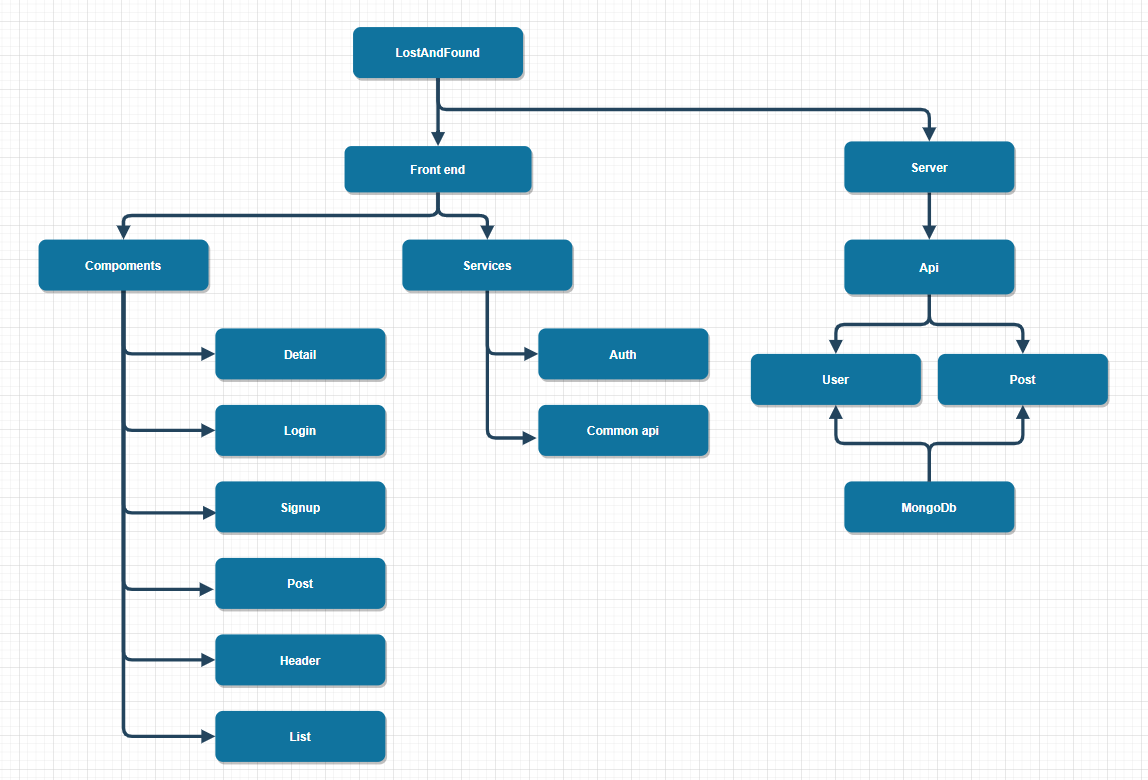
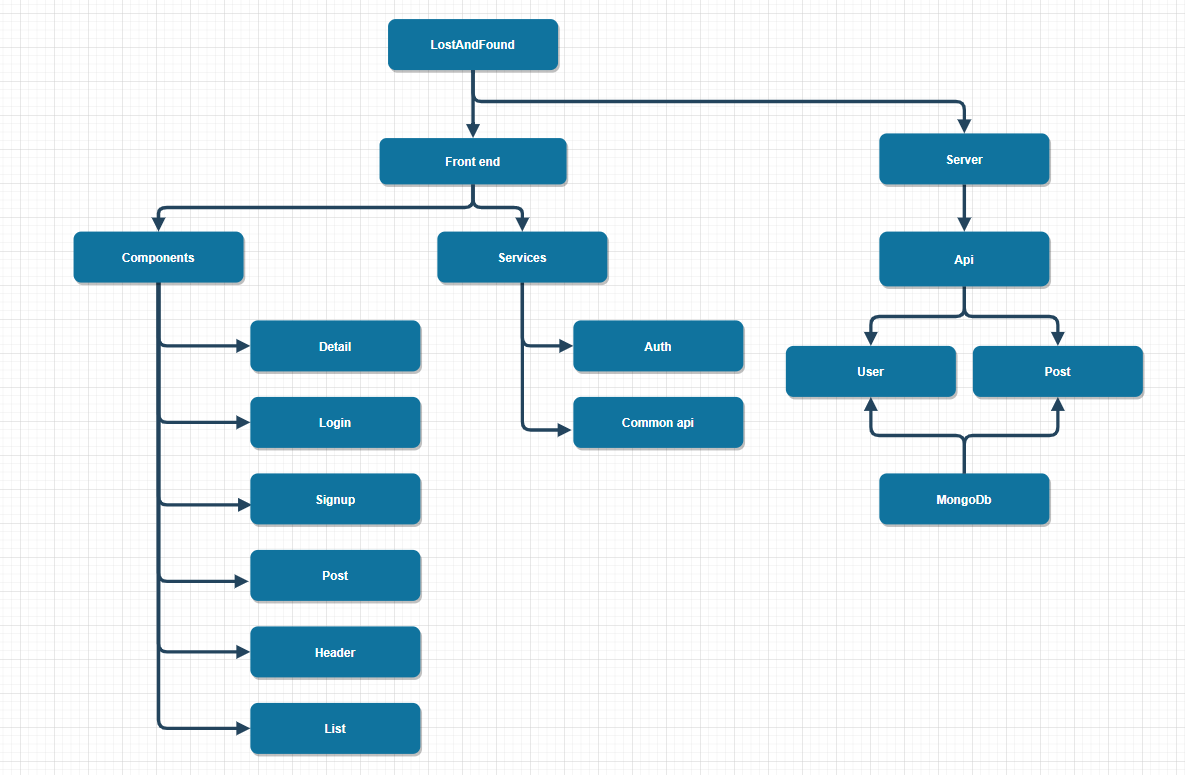
update system implementation

Changed region(s): [[0.0305, 0.0, 0.9756, 0.991], [0.8841, 0.1858, 0.9146, 0.2168]]

diff --git a/api/express/routes/post.js b/api/express/routes/post.js
@@ -44,7 +44,7 @@ router.get('/list', (req, res) => {
         res.status(200).json(
           {
             status: 1,
-            message: '成功',
+            message: 'success',
             data: data || [],
             total: count
           }
@@ -60,7 +60,7 @@ router.get('/detail', (req, res) => {
       res.status(200).json(
         {
           status: 1,
-          message: '成功',
+          message: 'success',
           data: data || {},
         }
       )
@@ -77,7 +77,7 @@ router.post('/comment', (req, res) => {
       }}}).exec((err, data) => {
         res.status(200).json({
           status: 1,
-          message: '成功',
+          message: 'success',
           data: data || {},
         })
     })
@@ -92,7 +92,7 @@ router.get('/deleteItem', (req, res) => {
         if (!err) {
           res.json({
             status: 1,
-            message: '成功',
+            message: 'success',
             data: {},
           })
         }

diff --git a/src/app/signup/signup.component.html b/src/app/signup/signup.component.html
@@ -1,7 +1,7 @@
 <div class="signup">
   <mat-card class="signupForm">
     <form class="signup-form" (submit)="onSubmit(form)" #form="ngForm">
-      <h2>Forum Register</h2>
+      <h2>Register</h2>
       <mat-form-field>
         <input matInput name="username" ngModel type="text" placeholder="Username" #username="ngModel" required>
         <mat-error *ngIf="username.invalid">Please write a valid username.</mat-error>

diff --git a/src/app/login/login.component.html b/src/app/login/login.component.html
@@ -1,7 +1,7 @@
 <div class="login">
     <mat-card class="loginForm">
         <form class="login-form" (submit)="onLogin(loginForm)" #loginForm="ngForm">
-            <h2>Forum Login</h2>
+            <h2>Login</h2>
             <mat-form-field>
                 <input matInput name="username" ngModel type="text" placeholder="Username" #username="ngModel"
                     required>

diff --git a/api/express/routes/user.js b/api/express/routes/user.js
@@ -50,7 +50,7 @@ function auth(
   authPassword,
   res
 ) {
-  if (password != authPassword) {
+  if (password !== authPassword) {
     return res.json({
       message: "Incorrect password",
       status: 0

diff --git a/README.md b/README.md
@@ -1,5 +1,11 @@
 # LostAndFound
 
+## Run instructions
+1. npm install
+2. ng build
+3. docker-compose up --build
+4. access (http://localhost:3000)
+
 ## Team Members
 
 | Name        | Email                        | Role                               | Photo |
@@ -39,19 +45,46 @@ China also attaches great importance to the construction of the lost and found s
 Through the understanding and analysis of some lost-and-found platforms, it can be seen that both domestic and foreign lost-and-found work has achieved certain results, and the target groups and coverage scope are also very broad, but the pertinence is slightly biased. Therefore, it is very necessary to build a targeted and fully functional lost-and-found system for Bristol university.
 ## 3. System Implementation
 ### 3.1 Stack architecture and system design
-Diagram of the lost and found system
+Diagram of the lost and found system:
 <p align="center">
 <img src="images/architecture.png"/>
 </p>
+The whole system is divided into 2 parts, the front end part and the server part.
+The front end part contains the components and the services. The components are used to display different content of the website and the services are used to communicate with the server api.
+The server part has two apis. The user api is to manage the login and signup function of the application and the post api is to manage the message and comment function of the system.
+Both of the them can connect to the mongo database to access the user data and the post data stored in the database.
 
 ### 3.2 Back end implementation
+Database used: MongoDb<br/>
+Backend database models:
+1. Post model: post title, post content, username of the writer, comments, post create time, post update time.
+2. User model: username and password.
 
 ### 3.3 Middle Tier implementation
+The server side use nodejs, express as the server. There are two apis:
+- Post api:
+1. Get the add post request and save the post into database post model.
+2. Get the post list and send data to the front end.
+3. Get the post detail and send data to the front end.
+4. Get the add comment request and update data.
+5. Get the delete request and delete the post.
+- User api:
+1. Get the signup request and save the user information into database user model. If user exist, return error message.
+2. Get the login request and compare with the user data in the database. If the data matched, return the success response, else, return the error message.
 
 ### 3.4 Front End implementation
-
+Front end used: Angular<br/>
+Components:
+1. Detail component: Display the post detail information, include post title, post body, comments, comment time, post delete button and comment submit button.
+2. Header component: Display the top navigation link in the home page, when the user has not logged in, display the login and signup button, else, display the logged username and logout button. 
+3. List component: Display the posts on the home page, limit to 8 posts per page.
+4. Login component: Display the form for user to login. If the user does not type in the valid information, the warning message will appear.
+5. Signup component: Display the form for user to register. User need to type in the username, password and repeat password. If the user does not type in the valid information, the warning message will appear.
+6. Post component: Display the input box for user to write the post and comment. The input box contain the post title and post content.
 ### 3.5 Deployment details
-
+The lost and found system use docker to achieve the continuous integration and deployment.
+The detail configuration are contained in the Dockerfile and the docker-compose.yml file.
+Docker create the nodejs image and db image, expose port 3000 to connect to the server.
 
 
 ## 4. UX Design
